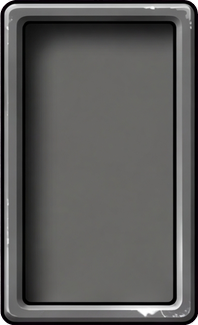
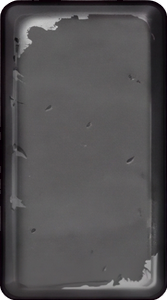
HUD art: the M3 dock repainted with Nano Banana Pro, recess widths as the whitebox draws them
Nano Banana Pro keeps a layout's proportions where Nano Banana 2 painted every recess the same
width, so the transport plate's seven bays and the housing's bay pocket, lanes and time recess come
straight from the paintings, each within 1.3 HUD units of the whitebox, with no re-proportioning.
The pressed parts are now the raised ones pushed in. The housing's track recess was painted lighter
over a fifth of its length; it is levelled by column before cutting. pixel-forge.md names Pro and
the steps between painting and cutting.

Claude-Session: https://claude.ai/code/session_01CWvRSTvNwoKGEdcHRjR3ry

diff --git a/pixel-forge.md b/pixel-forge.md
@@ -1,5 +1,6 @@
 ---
 store: .data/pixel-forge
+model: gemini-3-pro-image
 size: 4K
 budget_usd: 5
 cutout: "key #FF00FF"
@@ -24,9 +25,13 @@ render**: it holds the style guide, the method, the tools and what each one meas
 3. **Render each layout with its crops**: `pixel-forge gen --ref <layout>.png:layout --ref
    <crop>.png:style`. Pixel-forge stretches a long layout to an aspect the model accepts and back,
    so the result is the layout's full canvas, ready for the cutters. Crop the layout to the part
-   first, and measure the cut: the model evens out recesses of different widths, which
-   `.data/hud-art/work/m3kit/regrid.py` sets right by stretching the flat recess interiors.
-4. **Cut and file** with the repository's tools: `gridslice.py` for one-piece parts,
+   first. The model is **Nano Banana Pro**: it keeps a layout's recess widths (Nano Banana 2 and 2.1
+   paint them all equal), at the cost of 21:9 as its widest aspect. Test at `--size 1K`; render the
+   kit at 4K.
+4. **Before cutting**: key out a sheet's labels (everything outside its cells: `.data/hud-art/work/m3kit/unlabel.py`), and scale each painting
+   to 10 px per HUD unit, or the one-piece parts outgrow the 8 MB commit limit. A flat recess painted
+   with uneven tone is levelled by column (`.data/hud-art/work/m3kit/level.py`).
+5. **Cut and file** with the repository's tools: `gridslice.py` for one-piece parts,
    `PRESSED_DARK=1.5 cut.py` for sheets, `iconcut.py` for icons, then `file.py <kit dir> <parts>`.
    Check `tools/hudart/laycheck.py` still ends "laycheck: the two agree" and capture the mockup.
 
